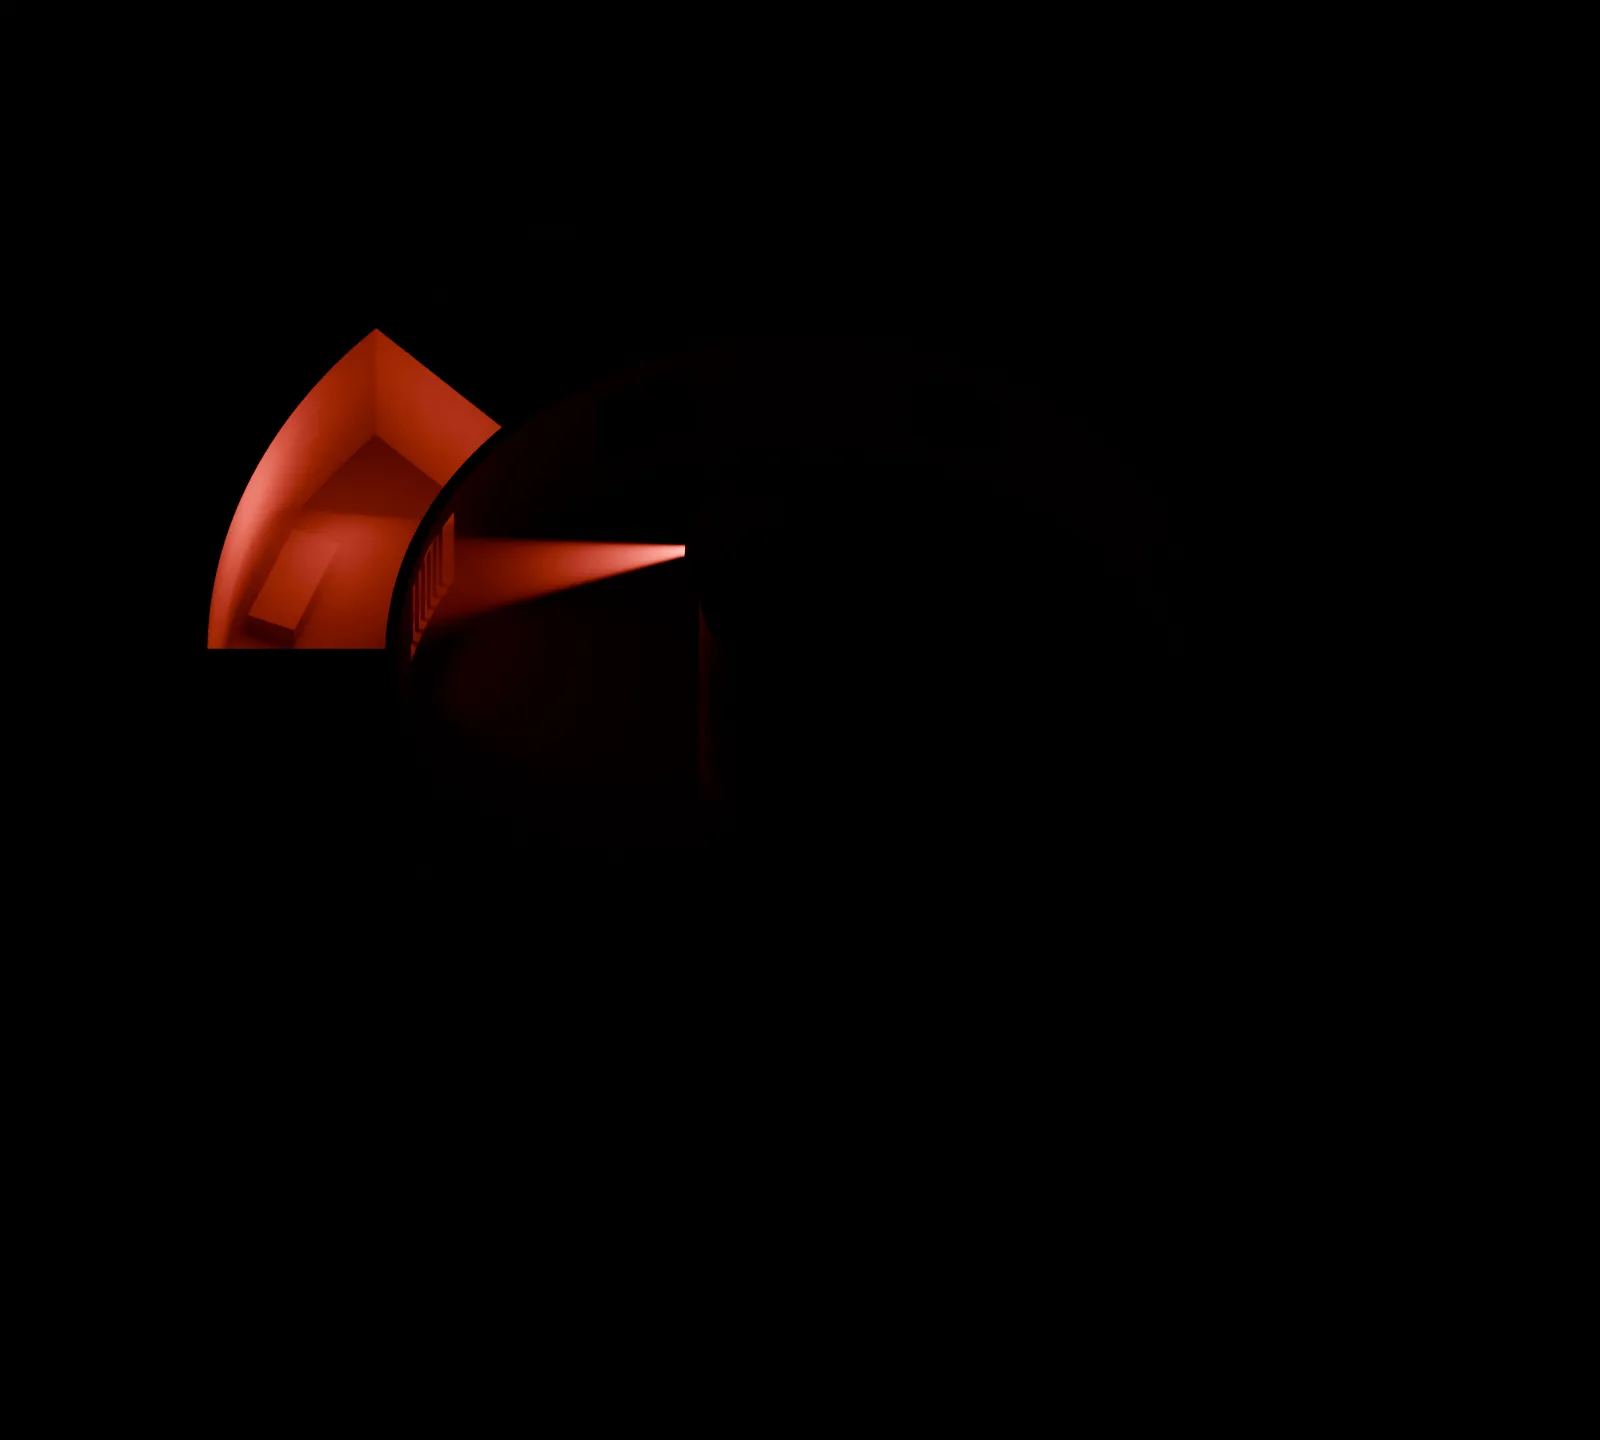
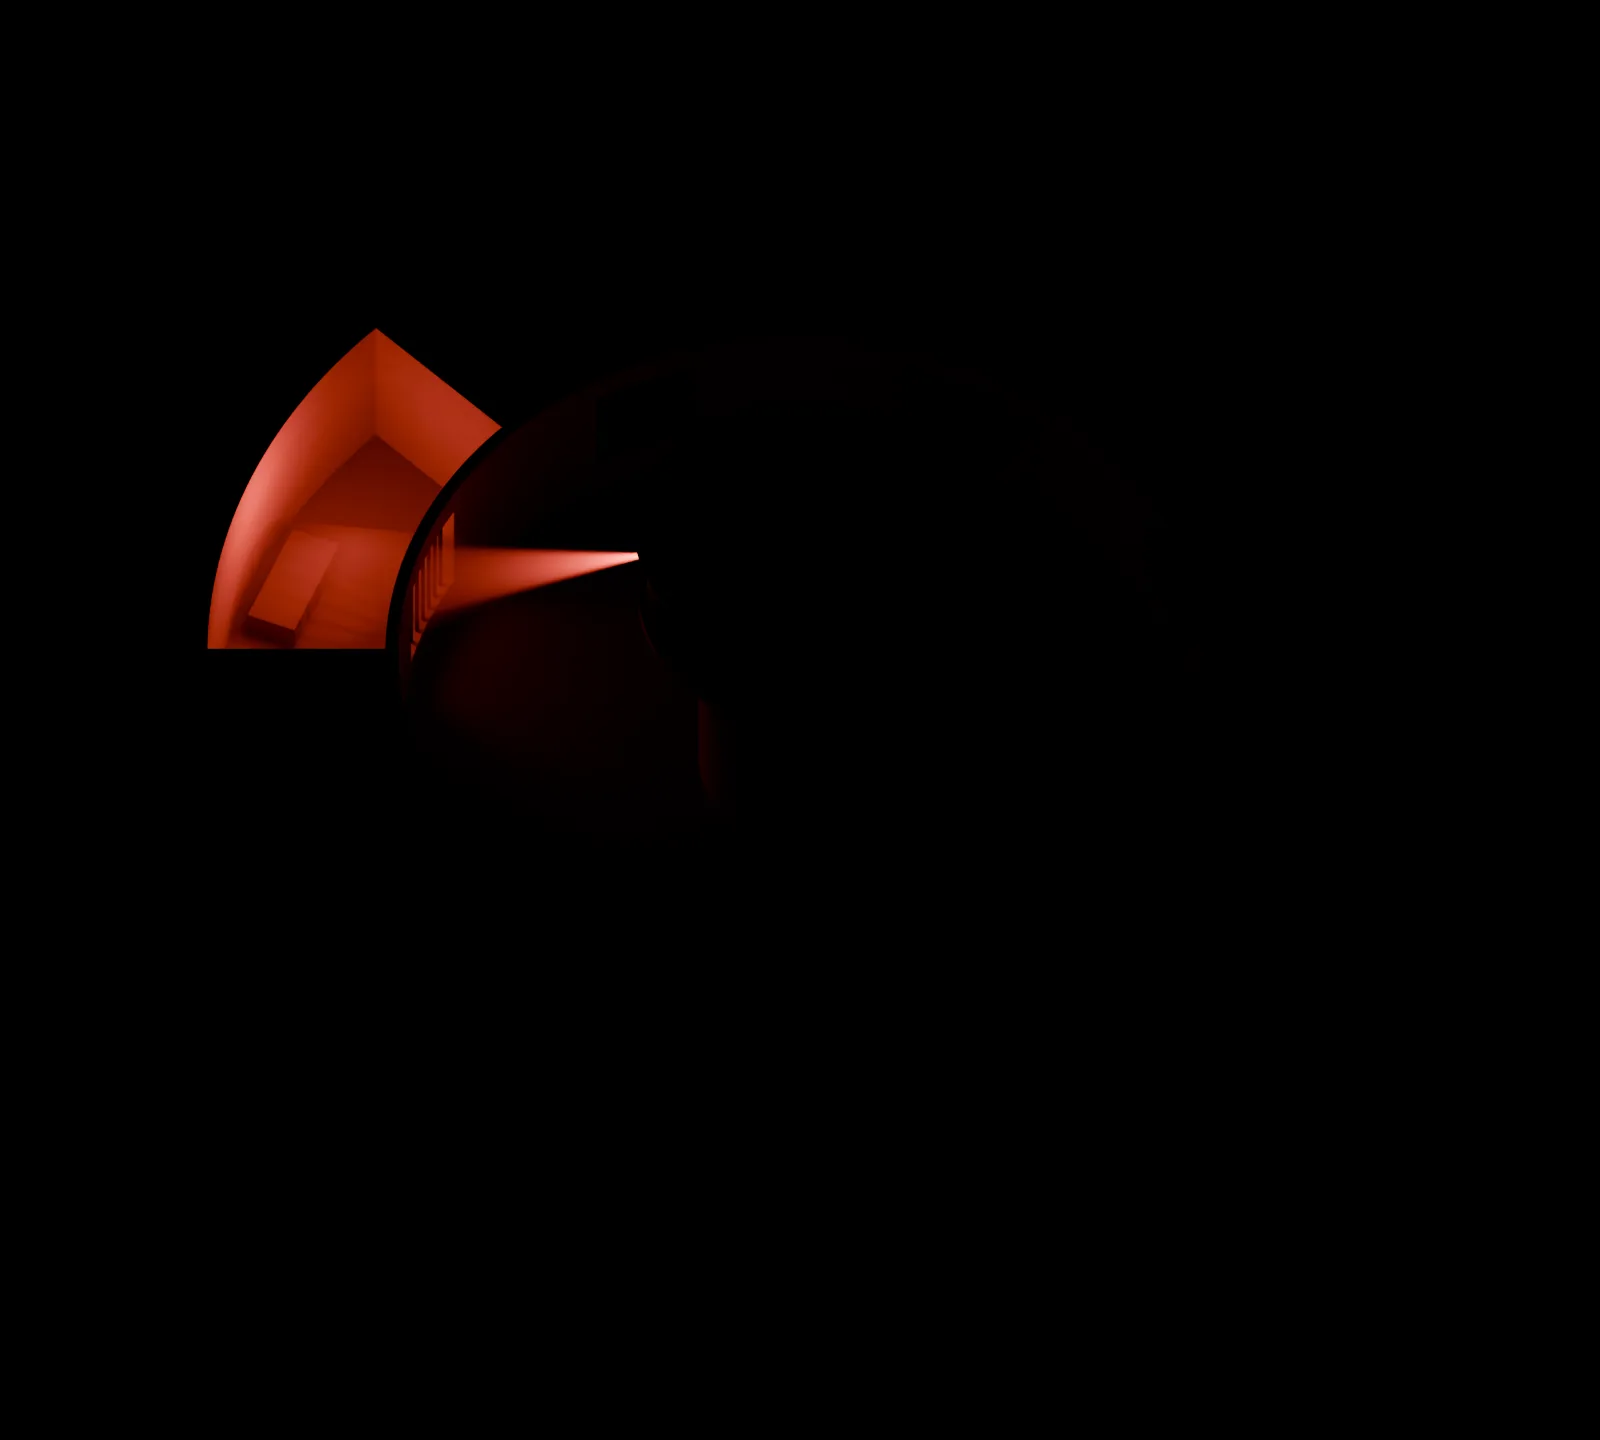
Render a 10,000-euro bundle and watchtower windows in Blender
The film's ID chapter now compares the same kind of transaction, 1991
against the 2027 threshold, so it needs one banded bundle of 100 notes at
the same true scale as the brick and the cent. The new access chapter
shows who may look into the account register as lit windows in the
panopticon's watchtower, one pass per kind of authority, aligned with the
base and the cell lights.

Changed region(s): [[0.25, 0.375, 0.4375, 0.4375], [0.1875, 0.3438, 0.25, 0.375]]

diff --git a/scripts/artwork/render-panopticon.py b/scripts/artwork/render-panopticon.py
@@ -3,10 +3,17 @@
 # in the middle. One base picture, and for each cell a light pass with only
 # a red searchlight from the tower through its window and a glow inside,
 # on black, so the page can add each cell's light by screen blending as
-# the years run. The script also writes where each cell's label, its marks
-# along the sightline and the top of the tower fall in the picture.
+# the years run. Nine separate watch passes light the observation windows
+# for the next chapter. Add them cumulatively: 0..2, then 0..7, then 0..8.
+# The script writes cell labels, marks, the tower top and window centres
+# as percentages of the picture, keeping every pass on the same camera.
 # Usage: blender -b -P scripts/artwork/render-panopticon.py -- <outdir> [pass]
-#   pass: "base", "light0".."light7", "points", or nothing for all.
+#   pass: "base", "light0".."light7", "watch0".."watch8", "points", or all.
+# Outputs PNGs; export to panopticon-{base,light-0..7,watch-0..8}.webp at
+# quality 82, without resizing. SAMPLES/PCT lower the cost of previews.
+# Before encoding light/watch passes, subtract 1/255 from RGB so render
+# dithering cannot lift black when the page screen-blends many passes.
+# Add -noaudio to the Blender command on machines without an audio server.
 import json
 import math
 import os
@@ -19,6 +26,10 @@ from mathutils import Vector
 args = sys.argv[sys.argv.index("--") + 1 :]
 OUT = args[0]
 ONLY = args[1] if len(args) > 1 else None
+if ONLY == "all":
+    ONLY = None
+if ONLY is not None and ONLY not in ("base", "points", *[f"light{k}" for k in range(8)], *[f"watch{k}" for k in range(9)]):
+    raise ValueError(f"Unknown panopticon pass: {ONLY}")
 SAMPLES = int(os.environ.get("SAMPLES", 160))
 PCT = int(os.environ.get("PCT", 100))
 W, H = 1600, 1440
@@ -28,6 +39,12 @@ CELLS = 8
 ANGLES = [math.radians(67.5 - k * 45) for k in range(CELLS)]
 R_TOWER, R_IN, R_OUT = 1.7, 7.0, 10.0
 WALL_H = 3.0
+# A wider lantern puts nine full-height panes on the camera-facing arc.
+# The first three are spaced across it, so every cumulative set balances.
+R_LANTERN = 2.65
+WATCH_SLOTS = [1, 4, 7, 0, 8, 2, 6, 3, 5]
+WATCH_ANGLES = [math.radians(-146 + slot * 14) for slot in WATCH_SLOTS]
+WATCH_Z = 5.48
 # Marks sit along the searchlight's path, from near the tower to the
 # window, so none hides behind the tower.
 MARK_T = [0.2 + k * 0.14 for k in range(6)]
@@ -119,7 +136,6 @@ def build(scene):
     ground = material("ground", (0.035, 0.038, 0.045), 0.95)
     steel = material("steel", (0.08, 0.08, 0.09), 0.35, 0.9)
     cot = material("cot", (0.25, 0.24, 0.23), 0.8)
-    glass = material("glass", (0.05, 0.05, 0.05), 0.2, emit=(1.0, 0.72, 0.42), strength=0.0)
 
     bpy.ops.mesh.primitive_plane_add(size=200, location=(0, 0, 0))
     bpy.context.active_object.data.materials.append(ground)
@@ -149,16 +165,32 @@ def build(scene):
         mid = (R_IN + R_OUT) / 2
         box(f"divider{k}", (R_OUT - R_IN, 0.24, WALL_H), polar(a, mid, WALL_H / 2), a, wall)
 
-    # The tower: a shaft, a band of windows lit from inside, a roof.
+    # The shaft stays in place; the lantern's wider, low roof leaves all
+    # nine panes visible from the existing high camera, even on a phone.
     bpy.ops.mesh.primitive_cylinder_add(vertices=128, radius=R_TOWER, depth=4.6, location=(0, 0, 2.3))
     bpy.context.active_object.data.materials.append(wall)
-    bpy.ops.mesh.primitive_cylinder_add(vertices=128, radius=R_TOWER - 0.05, depth=0.9, location=(0, 0, 5.05))
-    bpy.context.active_object.data.materials.append(glass)
-    bpy.ops.mesh.primitive_cylinder_add(vertices=128, radius=R_TOWER + 0.15, depth=0.25, location=(0, 0, 5.62))
+    bpy.ops.mesh.primitive_cylinder_add(vertices=128, radius=R_LANTERN + 0.08, depth=0.18, location=(0, 0, 4.61))
     bpy.context.active_object.data.materials.append(wall)
-    bpy.ops.mesh.primitive_cone_add(vertices=128, radius1=R_TOWER + 0.25, depth=1.3, location=(0, 0, 6.4))
+    bpy.ops.mesh.primitive_cylinder_add(vertices=128, radius=R_LANTERN - 0.07, depth=1.6, location=(0, 0, WATCH_Z))
+    bpy.context.active_object.data.materials.append(steel)
+    windows = []
+    for k, a in enumerate(WATCH_ANGLES):
+        pane = material(f"watch{k}", (0.075, 0.09, 0.115), 0.42, emit=(1.0, 0.11, 0.035), strength=0.0)
+        # A shallow frame and an inset pane, each tangent to the ring.
+        box(f"frame{k}", (0.12, 0.65, 1.66), polar(a, R_LANTERN, WATCH_Z), a, wall)
+        box(f"pane{k}", (0.04, 0.53, 1.43), polar(a, R_LANTERN + 0.07, WATCH_Z), a, pane)
+        # Small dark heads and shoulders make a lit post read as occupied.
+        watcher = material(f"watcher{k}", (0.018, 0.012, 0.014), 0.8)
+        head = polar(a, R_LANTERN + 0.105, WATCH_Z + 0.12)
+        bpy.ops.mesh.primitive_uv_sphere_add(segments=16, ring_count=8, radius=0.105, location=head)
+        bpy.context.active_object.data.materials.append(watcher)
+        box(f"shoulders{k}", (0.055, 0.28, 0.34), polar(a, R_LANTERN + 0.105, WATCH_Z - 0.17), a, watcher)
+        windows.append(pane)
+    bpy.ops.mesh.primitive_cylinder_add(vertices=128, radius=R_LANTERN + 0.1, depth=0.16, location=(0, 0, 6.36))
     bpy.context.active_object.data.materials.append(wall)
-    return glass
+    bpy.ops.mesh.primitive_cone_add(vertices=128, radius1=R_LANTERN + 0.15, depth=0.86, location=(0, 0, 6.87))
+    bpy.context.active_object.data.materials.append(wall)
+    return windows
 
 
 def camera(scene):
@@ -214,13 +246,11 @@ def render(scene, path):
 
 def base(path):
     scene = reset()
-    glass = build(scene)
+    build(scene)
     camera(scene)
     world(scene, 1.1, (0.05, 0.065, 0.11))
-    glass.node_tree.nodes["Principled BSDF"].inputs["Emission Strength"].default_value = 3.5
-    # Cold moonlight from high behind, a warm glow from the tower's window.
+    # Cold moonlight keeps unoccupied windows dark until their watch pass.
     light(scene, "SUN", "moon", 2.6, (-20, 30, 40), (0.62, 0.72, 1.0), target=(0, 0, 0))
-    light(scene, "POINT", "lamp", 900, (0, 0, 5.05), (1.0, 0.7, 0.45), size=0.6)
     scene.render.film_transparent = False
     render(scene, path)
 
@@ -232,8 +262,11 @@ def light_pass(k, path):
     world(scene, 0.0, (0, 0, 0))
     a = ANGLES[k]
     red = (1.0, 0.07, 0.05)
-    start = polar(a, R_TOWER + 0.05, 5.05)
+    # Keep the original sightline; the lamp begins just outside the wider
+    # lantern so its body does not block the beam toward the cell.
+    original = polar(a, R_TOWER + 0.05, 5.05)
     window = polar(a, R_IN, 1.55)
+    start = original.lerp(window, (R_LANTERN + 0.2 - R_TOWER - 0.05) / (R_IN - R_TOWER - 0.05))
     beam_dir = (window - start).normalized()
     # The searchlight from the tower's window through the bars, and a glow
     # inside the cell.
@@ -261,6 +294,17 @@ def light_pass(k, path):
     out = nt.nodes["Material Output"]
     nt.links.new(scatter.outputs["Volume"], out.inputs["Volume"])
     haze.data.materials.append(vol)
+    scene.render.film_transparent = False
+    render(scene, path)
+
+
+def watch_pass(k, path):
+    scene = reset()
+    windows = build(scene)
+    camera(scene)
+    world(scene, 0.0, (0, 0, 0))
+    # Only one pane emits; its reflected spill stays local to that post.
+    windows[k].node_tree.nodes["Principled BSDF"].inputs["Emission Strength"].default_value = 4.0
     scene.render.film_transparent = False
     render(scene, path)
 
@@ -300,6 +344,7 @@ def points(path):
         "centre": centre,
         "tower": project(Vector((0, 0, 7.3))),
         "cells": cells,
+        "watch": [project(polar(a, R_LANTERN + 0.09, WATCH_Z)) for a in WATCH_ANGLES],
     }
     with open(path, "w") as f:
         json.dump(data, f, indent=1)
@@ -313,3 +358,6 @@ if ONLY in (None, "base"):
 for k in range(CELLS):
     if ONLY in (None, f"light{k}"):
         light_pass(k, os.path.join(OUT, f"light{k}.png"))
+for k in range(len(WATCH_ANGLES)):
+    if ONLY in (None, f"watch{k}"):
+        watch_pass(k, os.path.join(OUT, f"watch{k}.png"))

diff --git a/scripts/artwork/render-cash.py b/scripts/artwork/render-cash.py
@@ -1,14 +1,21 @@
 # Renders the film's opening: what one could move in cash without ID, in
-# 100-euro notes, at true scale. Three objects, each rendered alone with
+# 100-euro notes, at true scale. Four objects, each rendered alone with
 # the same orthographic camera, so their sizes compare:
 #   brick: 339 notes of 100 euros (33,900 euros), three banded bundles of
 #          100 and 39 loose notes on top
+#   bundle: 100 notes of 100 euros (10,000 euros), one banded bundle
 #   slim:  13 notes of 100 and one of 50 on top (1,350 euros)
 #   cent:  a one-cent coin
-# Usage: blender -b -P scripts/artwork/render-cash.py -- <object> <out.png> <note100.png> <note50.png>
+# Usage: blender -b -P scripts/artwork/render-cash.py -- <object> <out.png> [note100.png] [note50.png]
 # The note pictures are fictional notes generated with Codex (no serial
 # numbers or security features, DAC8.ORG where the issuer would be); the
 # renders are cropped to a shared scale into src/assets/history/cash-*.webp.
+# At PCT=100 the raw picture has 2400/22 pixels per cm. Export at half
+# size (54.54545 px/cm), then crop; never resize individual cutouts to fit.
+# The bundle export uses a 1200x750 PNG, then x=126, y=199, w=1013, h=444;
+# clear alpha below 32/255 (shadow-catcher noise), WebP quality 82.
+# SAMPLES and PCT lower the cost of previews without changing the camera.
+# Add -noaudio to the Blender command on machines without an audio server.
 import math
 import random
 import sys
@@ -195,15 +202,15 @@ def material_band(name):
 band_mat = material_band("band")
 
 objects = []
-if which == "brick":
+if which in ("brick", "bundle"):
     z = 0.0
-    for b in range(3):
+    for b in range(3 if which == "brick" else 1):
         d = 100 * NOTE
         jx, jy = rnd.uniform(-0.08, 0.08), rnd.uniform(-0.06, 0.06)
         objects.append(box(f"bundle{b}", W100, H100, d, note100, edge100, (jx, jy, z), rnd.uniform(-0.006, 0.006)))
         objects.append(band(f"band{b}", W100, H100, d, (jx, jy, z), band_mat))
         z += d
-    for k in range(39):
+    for k in range(39 if which == "brick" else 0):
         jx, jy = rnd.uniform(-0.25, 0.25), rnd.uniform(-0.18, 0.18)
         objects.append(box(f"loose{k}", W100, H100, NOTE, note100, edge100, (jx, jy, z), rnd.uniform(-0.02, 0.02)))
         z += NOTE
@@ -240,6 +247,8 @@ elif which == "cent":
         a = k / 12 * math.tau
         bpy.ops.mesh.primitive_uv_sphere_add(radius=0.028, location=(0.58 * math.cos(a), 0.58 * math.sin(a), 0.167))
         bpy.context.active_object.data.materials.append(copper)
+else:
+    raise ValueError(f"Unknown cash object: {which}")
 
 # Shadow catcher on the floor.
 bpy.ops.mesh.primitive_plane_add(size=200, location=(0, 0, 0))
@@ -277,7 +286,7 @@ light("key", KEY, 26, (-38, -42, 58), (1.0, 0.95, 0.88))
 light("rim", RIM, 30, (30, 55, 26), (0.82, 0.9, 1.0))
 light("fill", FILL, 60, (55, -35, 18), (0.9, 0.94, 1.0))
 
-# The same orthographic camera for all three: from the front right, about
+# The same orthographic camera for every object: from the front right, about
 # 30 degrees above the table.
 cam = bpy.data.cameras.new("cam")
 cam.type = "ORTHO"
